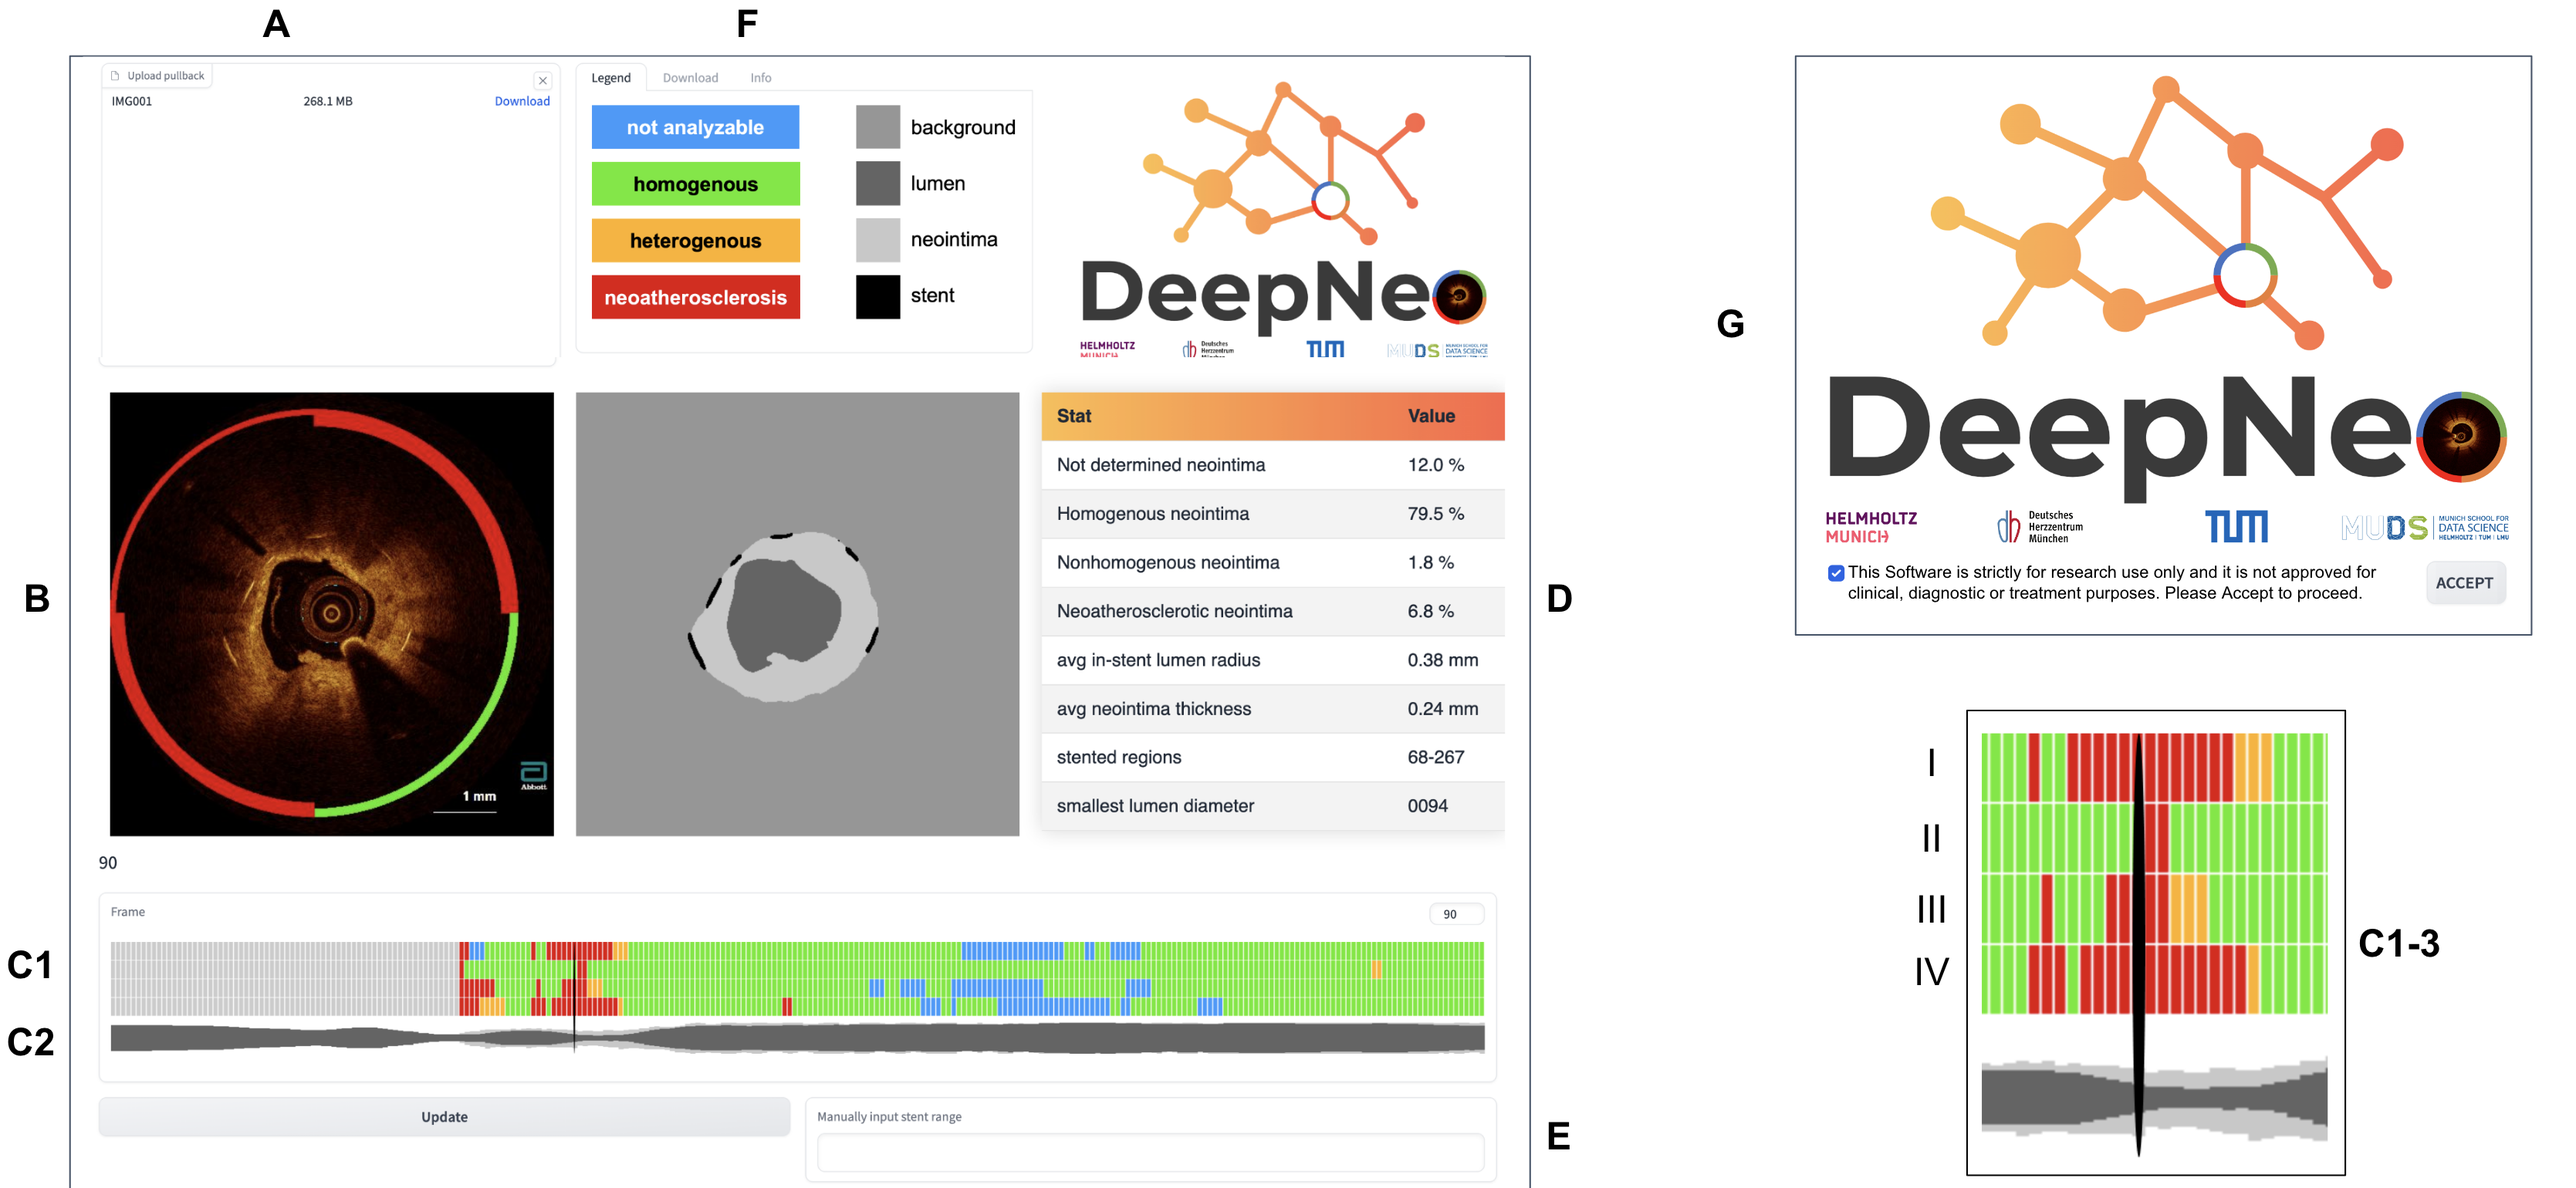
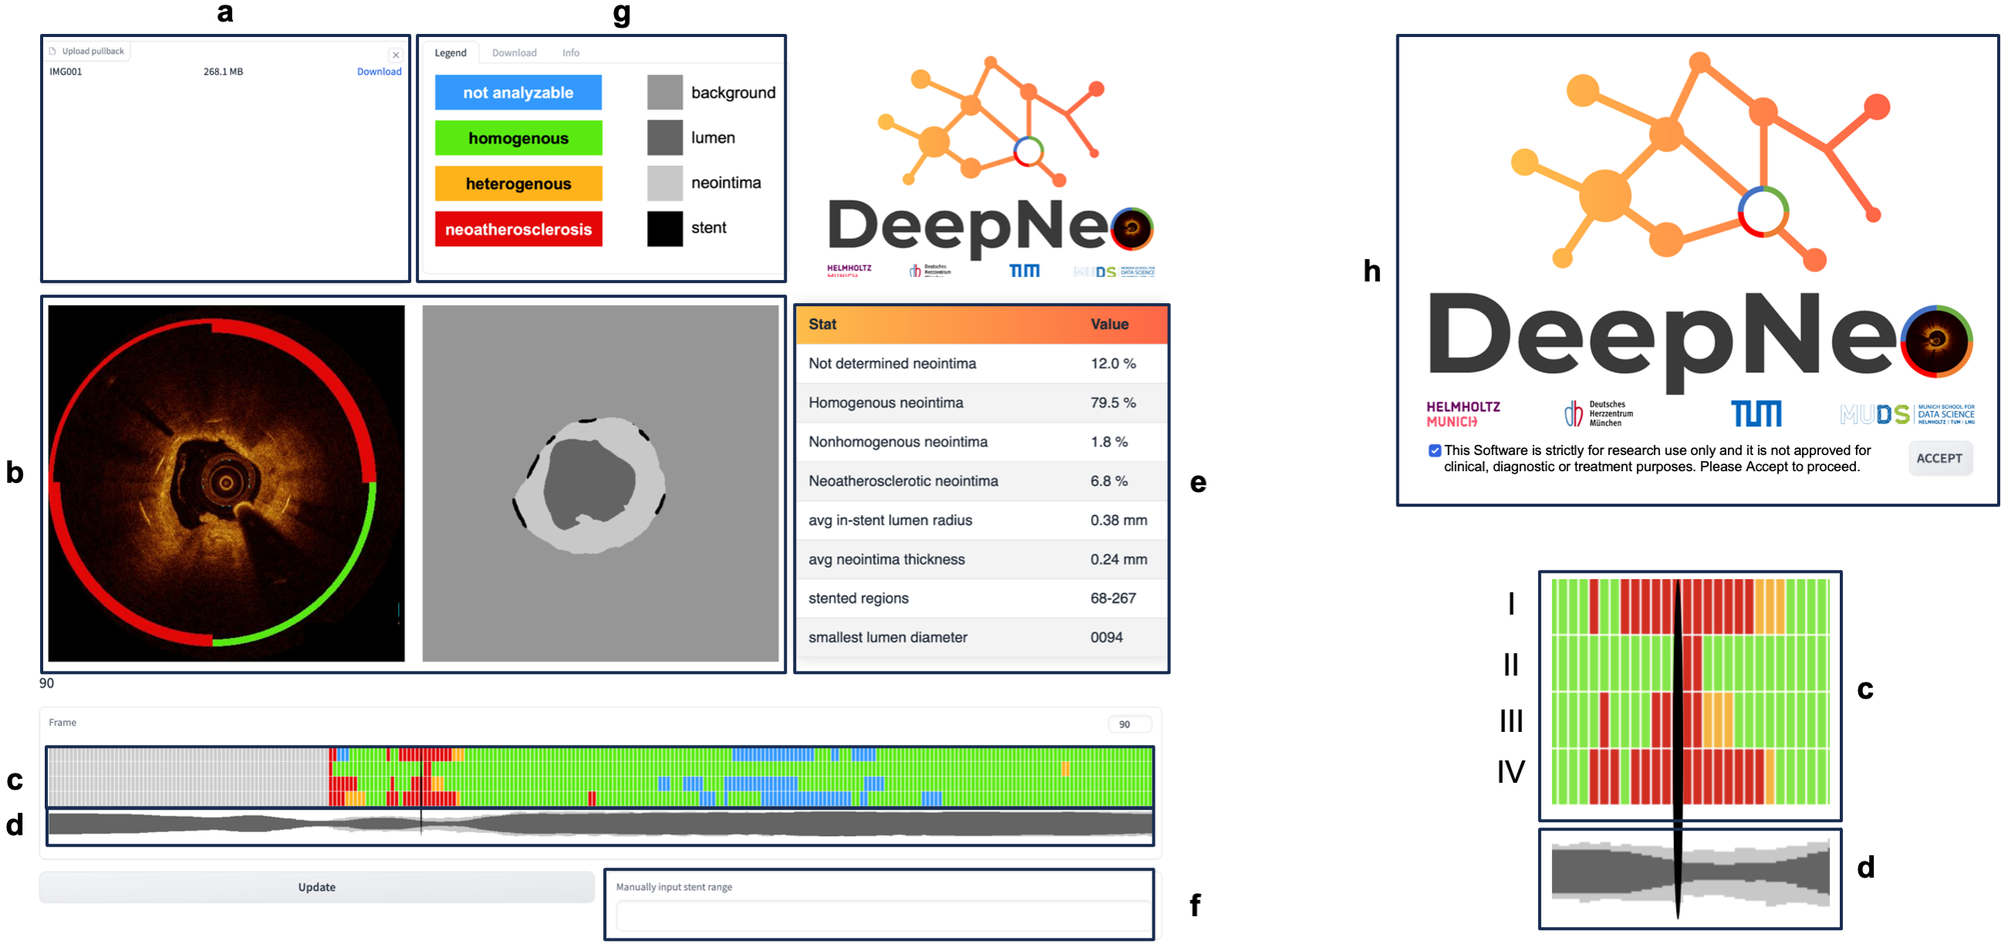
update

diff --git a/README.md b/README.md
@@ -18,12 +18,13 @@ We present DeepNeo, a deep learning-based algorithm, to automate the process of 
 
 ### Demo
 
-We provide an online tool for researchers to quickly analyze and download results, 
+We provide a tool for researchers to quickly analyze and download results, 
 #### click on the image for a video demonstration:
 [![Demo Video](media/deepneo_figure8.png?raw=true)](https://www.youtube.com/watch?v=u5l_Mjlfai4)
-The user interface of our webtool, which provides a user-friendly platform for the analysis of intravascular OCT images. The interface is designed with several features to facilitate accurate and efficient analysis, including an upload mask (A), which allows users to upload OCT pullback images (DICOM or .zip), a visual representation of the current OCT frame with segmentation and neointima prediction, a schematic view  of quadrants (C1) (top row represents quadrant I, bottom row quadrant IV) and neointima and lumen (C2) that provides a visual representation of the tissue characteristics, including a slider (C3) that enables users to move through the pullback. In addition, the interface includes a pullback analysis (D) that provides a detailed analysis of the OCT images and a manual correction feature (E) to correct beginning and end of the stent if necessary. The webtool also allows users to download a detailed analysis of their results and provides an information tab (F) for additional guidance. Users are required to accept the research-only use on the welcome page (G) before accessing the tool.
+The user-friendly interface is designed with several features to facilitate accurate and efficient analysis, including an upload mask (a), which allows users to upload OCT pullback images (DICOM or .zip), a visual representation of the current OCT frame with segmentation and neointima prediction (b), a schematic view of quadrants (c) (top row represents quadrant I, bottom row quadrant IV) and neointima and lumen (d) that provides a visual representation of the tissue characteristics, including a slider that enables users to move through the pullback. In addition, the interface includes a pullback analysis (e) that provides a detailed analysis of the OCT images and a manual correction feature (f) to correct beginning and end of the stent if necessary. The webtool also allows users to download a detailed analysis of their results and provides an information tab (g) for additional guidance. Users are required to accept the research-only use on the welcome page (h) before accessing the tool. 
+
 ### Usage
-To run the DeepNeo online tool, follow these steps:
+To run the DeepNeo tool, follow these steps:
 
 #### **Step 1: Clone the Repository**
 First, clone this repository to your local machine.
@@ -51,3 +52,7 @@ python run_gradio.py
 ```
 #### **Step 7: Access the Web Application**
 After running the script, a local server will start, and a URL will be generated. Open this URL in your web browser to access the DeepNeo web application. 
+
+
+### Models & Contact
+We are very happy to provide models, please request them at [Zenodo](https://zenodo.org/records/14556455) and contact Valentin Koch (valentin.koch@helmholtz-munich.de), Carsten Marr (carsten.marr@helmholtz-munich.de), or Michael Joner (joner@dhm.mhn.de).
